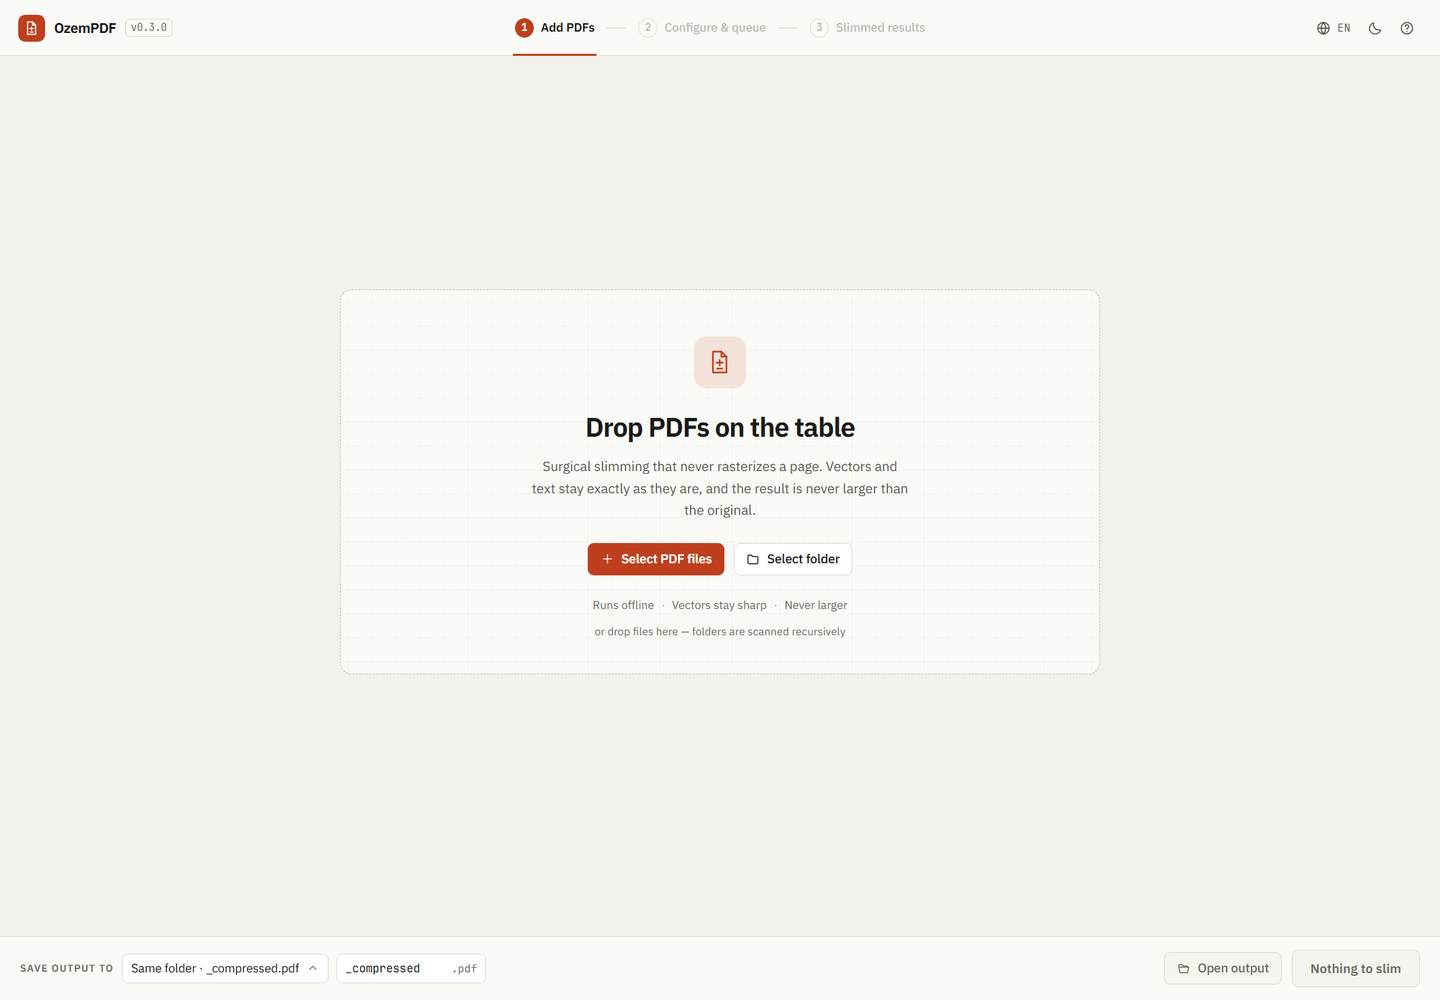
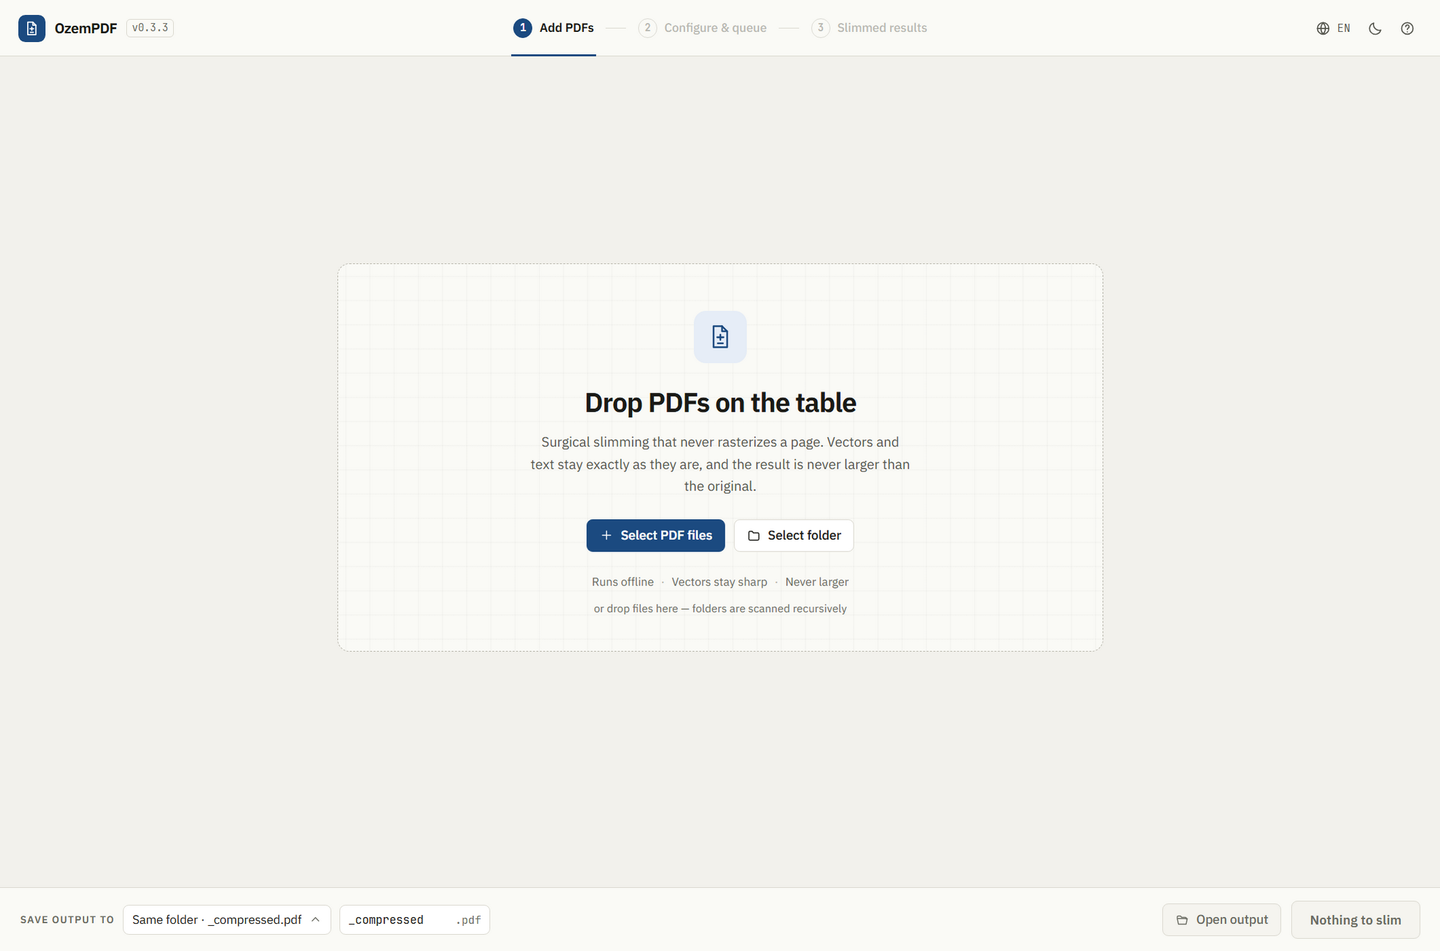
feat: switch the interface accent from vermilion to ink blue
The accent now carries the product's voice without reading as a warning. Blue is used for the primary action, the active step, focus, the segmented pill, slider thumbs, breakdown bars and the inspector wipe; green, amber and red keep their semantic meaning for savings, partial runs and errors, so nothing that communicates state changed colour.

- Light theme #1b4a80 on #fafaf6 (8.6:1), hover #143a67, soft tint #e6edf7 (7.6:1 against the accent); dark theme #63b3ed with #0a1622 ink (8.0:1) and soft #16283a. All pairs clear WCAG AA.
- App icon redrawn in the same blue, with a chamfered corner instead of a filled notch.
- Fixed a real bug found while reviewing screenshots: the header version chip was hardcoded v0.3.0 in index.html and never updated, so 0.3.3 builds advertised 0.3.0. It now renders state.version, and test_static_version_label_matches_package_version stops the fallback from drifting again.
- DESIGN.md palette table rewritten to match the shipped styles.css tokens (it still listed planning hexes), README screenshots regenerated in blue, version bumped to 0.3.3.
- 75 tests pass, ruff clean, node --check clean. Windows portable ZIP built: app/release/OzemPDF-0.3.3-win.zip; extracted to a normal folder, OzemPDF.exe opens without flags, spawns the bundled engine and writes only into data\\ beside itself.

diff --git a/src/ozempdf/web/styles.css b/src/ozempdf/web/styles.css
@@ -56,10 +56,10 @@
   --ink-3: #6b6c63;
   --rule: #dbd9d0;
   --rule-strong: #b8b6ab;
-  --accent: #b93b1b;
-  --accent-hover: #9f3015;
+  --accent: #1b4a80;
+  --accent-hover: #143a67;
   --accent-ink: #ffffff;
-  --accent-soft: #f7e8e1;
+  --accent-soft: #e6edf7;
   --success: #1c6742;
   --success-soft: #e3efe6;
   --warning: #7e5310;
@@ -85,10 +85,10 @@
   --ink-3: #96978d;
   --rule: #30322b;
   --rule-strong: #4a4c42;
-  --accent: #ee6543;
-  --accent-hover: #ff7955;
-  --accent-ink: #1b0d08;
-  --accent-soft: #39241b;
+  --accent: #63b3ed;
+  --accent-hover: #86c7f2;
+  --accent-ink: #0a1622;
+  --accent-soft: #16283a;
   --success: #5ec191;
   --success-soft: #1c2e24;
   --warning: #e3ae55;

diff --git a/src/ozempdf/web/app.js b/src/ozempdf/web/app.js
@@ -72,6 +72,10 @@
       node.placeholder = t(node.dataset.i18nPlaceholder);
     });
     document.title = t('app.window_title', { version: state.version });
+    const versionLabel = $('#versionLabel');
+    if (versionLabel) versionLabel.textContent = `v${state.version}`;
+    const helpVersion = $('#helpVersion');
+    if (helpVersion) helpVersion.textContent = `v${state.version}`;
   }
 
   /* ------------------------------------------------------------------ */

diff --git a/src/ozempdf/web/index.html b/src/ozempdf/web/index.html
@@ -49,7 +49,7 @@
     <div class="brand">
       <span class="brand-mark"><svg><use href="#i-logo"/></svg></span>
       <span class="brand-name">OzemPDF</span>
-      <span class="brand-version" id="versionLabel">v0.3.0</span>
+      <span class="brand-version" id="versionLabel">v0.3.3</span>
     </div>
 
     <nav class="stepper" id="stepper" aria-label="Steps">

diff --git a/scripts/make_icon.py b/scripts/make_icon.py
@@ -10,7 +10,7 @@ from pathlib import Path
 
 from PIL import Image, ImageDraw
 
-ACCENT = (185, 59, 27, 255)
+ACCENT = (27, 74, 128, 255)
 PAPER = (244, 243, 238, 255)
 WHITE = (255, 255, 255, 255)
 
@@ -30,6 +30,7 @@ def render(size: int = 512) -> Image.Image:
     left, right = round(176 * scale), round(336 * scale)
     top, bottom = round(128 * scale), round(384 * scale)
     fold = round(64 * scale)
+    # Page with a chamfered top-right corner; the chamfer itself reads as the fold.
     draw.polygon(
         [
             (left, top),
@@ -40,15 +41,18 @@ def render(size: int = 512) -> Image.Image:
         ],
         fill=WHITE,
     )
-    # Folded corner: remove the triangle so the paper reads as a document.
-    draw.polygon(
-        [(right - fold, top), (right, top + fold), (right - fold, top + fold)],
+    # A single hairline from the chamfer edge into the page reads as a folded corner
+    # without turning into mush at 16 px.
+    draw.line(
+        [(right - fold, top), (right - fold, top + fold), (right, top + fold)],
         fill=ACCENT,
+        width=max(2, round(6 * scale)),
+        joint="curve",
     )
     line = max(2, round(10 * scale))
     bar_left = round(left + 32 * scale)
     bar_width = round(right - left - 64 * scale)
-    for offset, width in ((0.44, 0.56), (0.58, 0.42), (0.72, 0.28)):
+    for offset, width in ((0.46, 0.62), (0.60, 0.46), (0.74, 0.30)):
         bar_top = round(bottom * offset + 12 * scale)
         draw.rounded_rectangle(
             [bar_left, bar_top, bar_left + round(bar_width * width), bar_top + line],

diff --git a/tests/test_web.py b/tests/test_web.py
@@ -78,9 +78,18 @@ def test_index_serves_ui_and_sets_session_cookie(live) -> None:
     status, body, _headers = client.get("/api/bootstrap")
     assert status == 200
     payload = _json(body)
-    assert payload["version"] == "0.3.2"
+    assert payload["version"] == "0.3.3"
     assert "header.step1" in payload["strings"]
     assert payload["queue"] == []
+
+
+def test_static_version_label_matches_package_version() -> None:
+    """The hardcoded fallback in index.html must never drift (it once said 0.3.0)."""
+    from ozempdf import __version__
+    from ozempdf.server import WEB_DIR
+
+    html = (WEB_DIR / "index.html").read_text(encoding="utf-8")
+    assert f'id="versionLabel">v{__version__}<' in html
 
 
 def test_api_requires_the_session_cookie(live) -> None:

diff --git a/src/ozempdf/_version.py b/src/ozempdf/_version.py
@@ -1,4 +1,4 @@
 """Version source of truth for OzemPDF."""
 
-__version__ = "0.3.2"
+__version__ = "0.3.3"
 __version_info__ = (0, 3, 2)

diff --git a/DESIGN.md b/DESIGN.md
@@ -4,34 +4,41 @@
 
 ## World
 
-**The drafting table.** OzemPDF is a precision instrument that sits on a document workstation. The interface borrows the material language of a drafting surface: warm paper, hairline rules, a faint measured grid, tabular figures, and a single vermilion mark that shows where the tool is cutting. Nothing is decorated; everything is measured. The queue and the numbers are the composition; the chrome recedes into hairlines.
+**The drafting table.** OzemPDF is a precision instrument that sits on a document workstation. The interface borrows the material language of a drafting surface: warm paper, hairline rules, a faint measured grid, tabular figures, and a single ink-blue mark that shows where the tool is cutting. Nothing is decorated; everything is measured. The queue and the numbers are the composition; the chrome recedes into hairlines.
 
 Mode: **Operate**. Every screen serves a task in progress. Familiar desktop-document conventions (three-step stepper, table with sticky head, footer action dock) earn their place; the point of view lives in the typography, the measured grid, and the restraint of one accent.
 
 ## Palette
 
-Tokens are defined once in `tokens.css` and consumed by both themes.
+Tokens are defined once in `styles.css` (`:root` and `[data-theme='dark']`) and consumed by both themes.
 
 | Token | Light | Dark | Role |
 | --- | --- | --- | --- |
-| `--paper` | `#F4F3EE` | `#131412` | app canvas |
-| `--surface` | `#FBFBF8` | `#1A1B18` | content surface |
-| `--raised` | `#FFFFFF` | `#222320` | rows, controls, floating layers |
-| `--ink` | `#1B1B17` | `#EDECE6` | primary text |
-| `--ink-2` | `#55564E` | `#B4B5AC` | secondary text |
-| `--ink-3` | `#6E6F66` | `#96978E` | muted text, labels (AA on its surface) |
-| `--rule` | `#DCDAD1` | `#33352E` | hairlines |
-| `--rule-strong` | `#B9B7AC` | `#4C4E45` | dashed drop border, separators |
-| `--accent` | `#C2401F` | `#F0653F` | primary action, active step, divider |
-| `--accent-soft` | `#F6E4DC` | `#3A241C` | accent tint |
-| `--success` | `#1D6B45` | `#63C695` | savings, completed |
-| `--success-soft` | `#E4F0E7` | `#1D2E24` | completion tint |
-| `--warning` | `#8A5A12` | `#E2AA4C` | partial runs |
-| `--warning-soft` | `#F6EDD9` | `#332A18` | warning tint |
-| `--danger` | `#A32B1F` | `#F0806F` | errors, destructive |
-| `--danger-soft` | `#F7E4E0` | `#3A211D` | error tint |
+| `--paper` | `#F2F1EC` | `#111210` | app canvas |
+| `--surface` | `#FAFAF6` | `#171815` | content surface |
+| `--raised` | `#FFFFFF` | `#1F211D` | rows, controls, floating layers |
+| `--raised-2` | `#F5F4EF` | `#24261F` | recessed tracks, table head |
+| `--ink` | `#1B1B17` | `#ECEBE4` | primary text |
+| `--ink-2` | `#54554D` | `#B3B4AA` | secondary text |
+| `--ink-3` | `#6B6C63` | `#96978D` | muted text, labels (AA on its surface) |
+| `--rule` | `#DBD9D0` | `#30322B` | hairlines |
+| `--rule-strong` | `#B8B6AB` | `#4A4C42` | dashed drop border, separators |
+| `--accent` | `#1B4A80` | `#63B3ED` | primary action, active step, divider |
+| `--accent-hover` | `#143A67` | `#86C7F2` | pressed/hover accent |
+| `--accent-ink` | `#FFFFFF` | `#0A1622` | text on an accent fill |
+| `--accent-soft` | `#E6EDF7` | `#16283A` | accent tint |
+| `--success` | `#1C6742` | `#5EC191` | savings, completed |
+| `--success-soft` | `#E3EFE6` | `#1C2E24` | completion tint |
+| `--warning` | `#7E5310` | `#E3AE55` | partial runs |
+| `--warning-soft` | `#F5ECD8` | `#322A17` | warning tint |
+| `--danger` | `#9E2A1E` | `#F08170` | errors, destructive |
+| `--danger-soft` | `#F5E2DE` | `#38211C` | error tint |
 
-The accent is used only for: the primary action, the current step marker, keyboard focus, the wipe divider, and the active segmented pill. Savings are `--success`; errors `--danger`; partial runs `--warning`. No other colour appears.
+The accent is **ink blue**, used only for: the primary action, the current step marker, keyboard
+focus, the wipe divider, slider thumbs and the active segmented pill. Savings are `--success`;
+errors `--danger`; partial runs `--warning`. No other colour appears. Measured contrast: accent on
+surface 8.6:1 light / 7.8:1 dark, `--accent-ink` on accent 9.0:1 / 8.0:1, accent on its tint 7.6:1 /
+6.3:1 — all clear of the 4.5:1 AA floor.
 
 ## Typography
 

diff --git a/README.md b/README.md
@@ -1,6 +1,6 @@
 # OzemPDF
 
-**v0.3.2** — surgical lossless and visually-lossless PDF slimming.
+**v0.3.3** — surgical lossless and visually-lossless PDF slimming.
 
 OzemPDF makes PDFs smaller without re-distilling pages. It never rasterizes page content and
 never rewrites vector or text operators; it performs object-level surgery on embedded images,
@@ -13,7 +13,21 @@ font programs, deflate streams, metadata and the cross-reference structure.
 - **The interface is plain HTML/CSS/JS**, served by the Python engine and wrapped by an Electron
   window on Windows, macOS and Linux.
 
+![Dropping PDFs on the working table](docs/screenshots/step1.png)
+
 ![The queue and compression card](docs/screenshots/step2.png)
+
+## Results
+
+Each run reports where the bytes went, per file or for the whole batch, and marks documents whose
+protection was removed.
+
+![Batch results with the savings breakdown](docs/screenshots/step3.png)
+
+The wipe-slider inspector shows the original and the slimmed page at the same zoom, which makes
+"visually lossless" checkable instead of a claim:
+
+![Wipe-slider quality inspector](docs/screenshots/inspector.png)
 
 ## Why another PDF compressor
 
@@ -78,7 +92,7 @@ there as expected.
 
 ### Windows: portable, no installer
 
-The Windows build is a single **portable ZIP**: `app/release/OzemPDF-0.3.2-win.zip`. There is no
+The Windows build is a single **portable ZIP**: `app/release/OzemPDF-0.3.3-win.zip`. There is no
 installer, no registry entry, no Program Files copy and no uninstaller. Extract it anywhere
 writable (for example `D:\OzemPDF`) and run from there; do not run it from inside the ZIP.
 
@@ -138,7 +152,9 @@ does not need one — Adobe asks for a password only to *change* permissions, wh
 itself is readable with the empty password every conforming reader tries. Restricting permissions
 is not encryption of the content, and removing those restrictions is not decryption.
 
-![Protection states and the unlocked count in the results band](docs/screenshots/protection.png)
+Removed protection is reported, never silent: the queue marks locked and permission-restricted
+documents, and the results band counts what was unlocked without a password (visible in the results
+screenshot above).
 
 ## Configuration and data
 

diff --git a/CHANGELOG.md b/CHANGELOG.md
@@ -4,6 +4,19 @@ All notable changes to OzemPDF are documented here. The format follows
 [Keep a Changelog](https://keepachangelog.com/en/1.1.0/) and this project adheres to
 [Semantic Versioning](https://semver.org/spec/v2.0.0.html).
 
+## 0.3.3 — 2026-11-24
+
+### Changed
+
+- **New interface accent colour: deep blue instead of vermilion.** The brand mark, primary buttons,
+  active step, focus rings, slider thumbs, the wipe divider and the breakdown bars are now ink blue
+  (`#1b4a80` light, `#63b3ed` dark). The drafting-table neutrals are unchanged, and the semantic
+  colours keep their meaning: green still means saved/completed, red still means danger or a failed
+  file, amber still means a partial run. Every pairing was re-measured for WCAG AA — accent on
+  surface 8.6:1, white on accent 9.0:1, accent on its tint 7.6:1 in the light theme; 7.8:1, 8.0:1
+  and 6.3:1 in the dark theme, all above the 4.5:1 floor.
+- The application icon follows the accent, so the taskbar, window and ZIP read as the same product.
+
 ## 0.3.2 — 2026-11-24
 
 ### Changed

diff --git a/PRODUCT.md b/PRODUCT.md
@@ -36,7 +36,7 @@ Constraints: Python ≥3.10 engine; no external PDF binaries; outputs are plain 
 
 ## Brand Commitments
 
-Name OzemPDF, version line v0.3.2. The product's voice is precise and quiet: it states measured facts ("38.4 MB saved", "vectors preserved"), never marketing adjectives. No emoji as UI iconography.
+Name OzemPDF, version line v0.3.3. The product's voice is precise and quiet: it states measured facts ("38.4 MB saved", "vectors preserved"), never marketing adjectives. No emoji as UI iconography.
 
 ## Evidence on Hand
 
